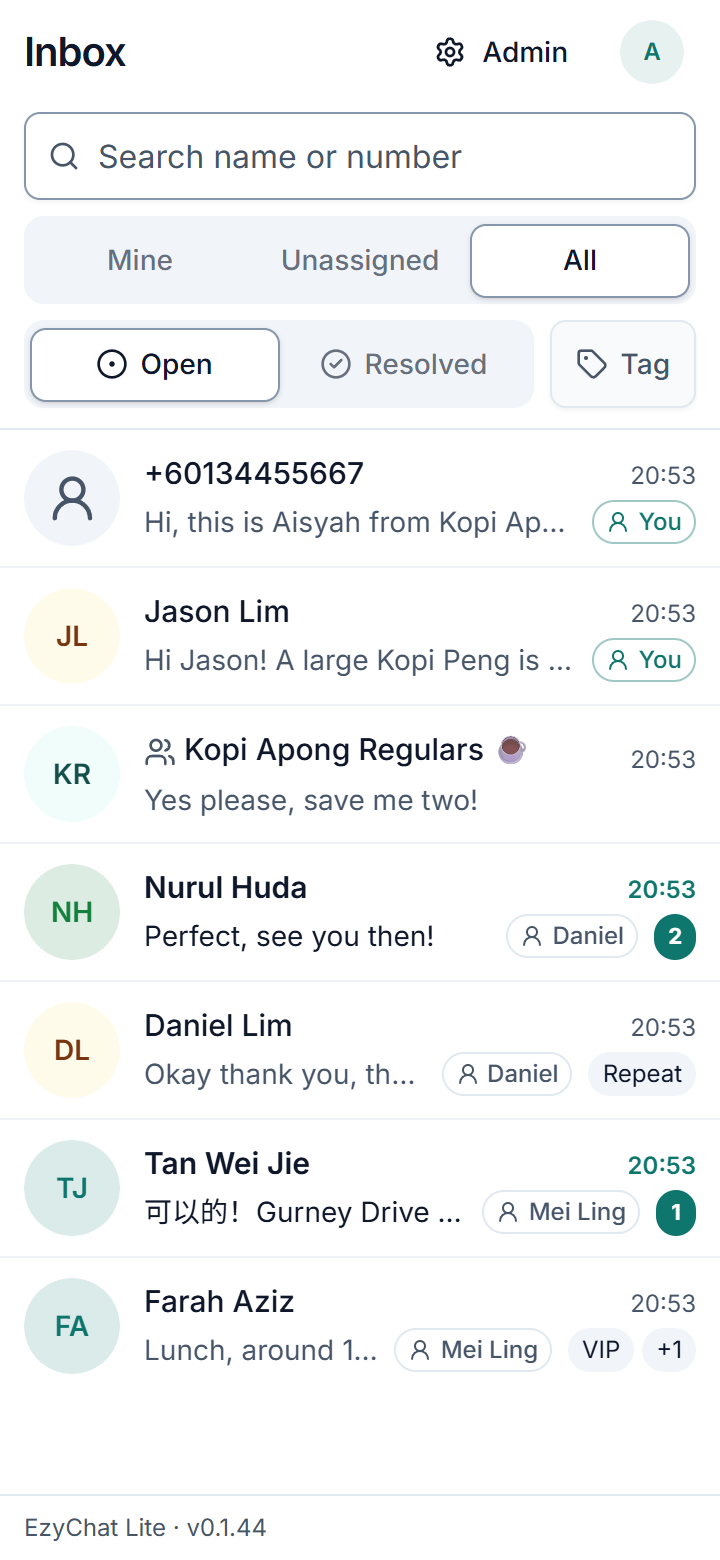
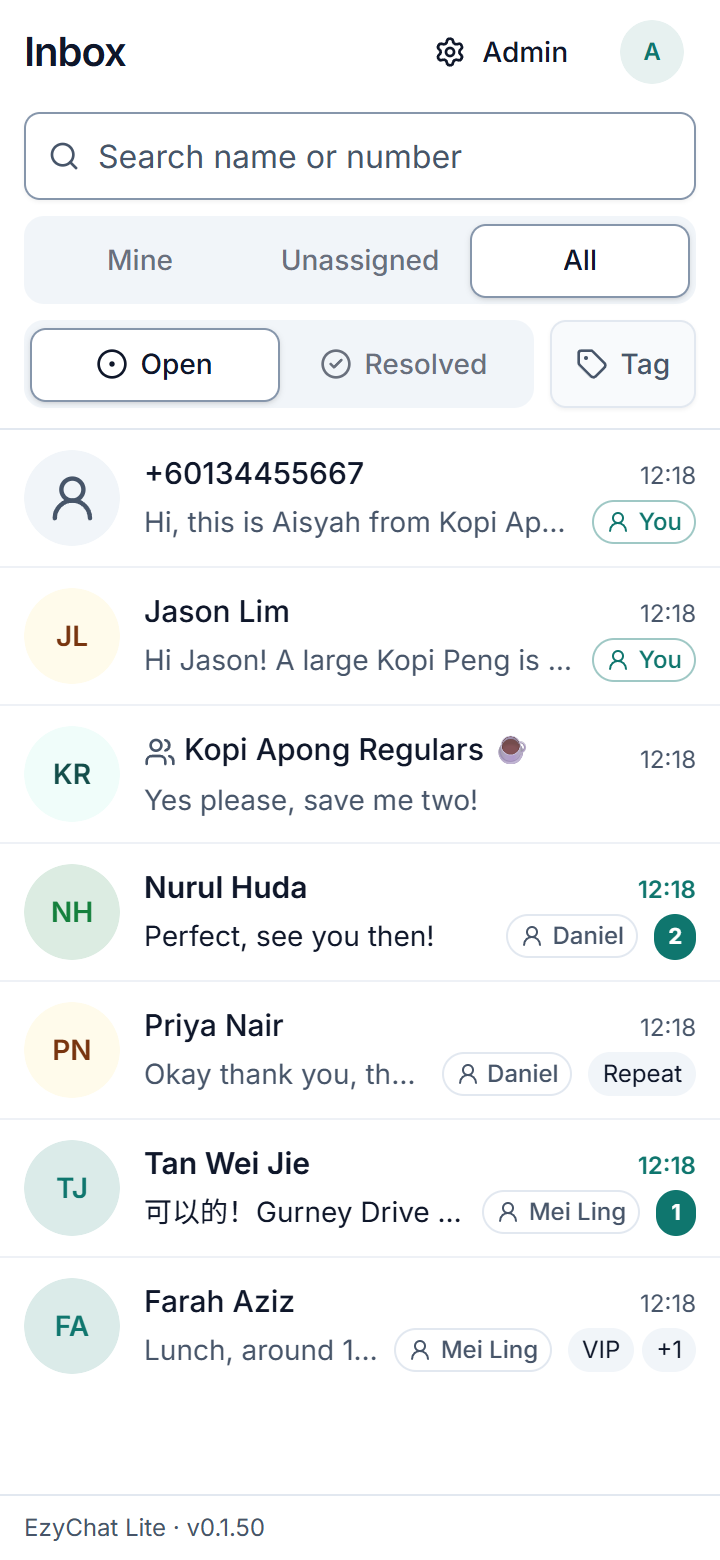
fix(web): reaction badge never covers the time and ticks; demo shots with reactions
Screen review of the real app: the meta line gets room when a message has
reactions (app and mock), checked in e2e. The demo screenshot script seeds
reactions and adds chat/group-reactions-*; the group member Daniel no longer
shares Priya's number.

Claude-Session: https://claude.ai/code/session_01S9XZgzFP3XMvxuZSeyCGwr

diff --git a/apps/web/src/inbox/MessageBubble.tsx b/apps/web/src/inbox/MessageBubble.tsx
@@ -288,7 +288,14 @@ export function MessageBubble({
             {formatWhatsApp(m.body)}
           </p>
         )}
-        <div className="mt-0.5 flex items-center justify-end gap-1 text-[11px] text-muted-foreground">
+        <div
+          className={cn(
+            'mt-0.5 flex items-center justify-end gap-1 text-[11px] text-muted-foreground',
+            // Room for the reaction badge, which overlaps the bubble's lower edge: it never covers
+            // the time or the ticks.
+            reactions.length > 0 && 'pb-3',
+          )}
+        >
           {/* Replies the admin's AI assistant sent through MCP (stored marker, not the clientId). */}
           {out && m.viaAssistant && (
             <span className="flex items-center gap-0.5" data-testid="via-assistant">

diff --git a/docs/features/emoji-reactions/mock/src/inbox/MessageBubble.tsx b/docs/features/emoji-reactions/mock/src/inbox/MessageBubble.tsx
@@ -292,7 +292,13 @@ export function MessageBubble({
             {linkify(m.body)}
           </p>
         )}
-        <div className="mt-0.5 flex items-center justify-end gap-1 text-[11px] text-muted-foreground">
+        <div
+          className={cn(
+            'mt-0.5 flex items-center justify-end gap-1 text-[11px] text-muted-foreground',
+            // Screen review: room for the reaction badge, so it never covers the time or the ticks.
+            reactions.length > 0 && 'pb-3',
+          )}
+        >
           {/* Proposed (MCP send): replies the admin's AI assistant sent carry this line. The mock
               recognises them by the send tool's clientId; the app will use a stored marker. */}
           {out && m.clientId?.startsWith('mcp-') && (

diff --git a/e2e/reactions.spec.ts b/e2e/reactions.spec.ts
@@ -51,6 +51,10 @@ test('emoji reactions show live under the bubble, group by emoji, list who react
   const badge = outbound.getByTestId('reaction-badges');
   await expect(badge).toHaveText('👍');
   await expect(badge).toHaveAccessibleName('Reactions: 👍 1');
+  // The badge hangs under the bubble's corner and never covers the time or the ticks.
+  const badgeBox = (await badge.boundingBox())!;
+  const timeBox = (await outbound.locator('time').boundingBox())!;
+  expect(badgeBox.y).toBeGreaterThanOrEqual(timeBox.y + timeBox.height);
   await react({ messageId: outboundId, emoji: '❤' });
   await expect(badge).toHaveText('❤');
   // The linked phone reacts to the customer's question too.

diff --git a/docs/features/emoji-reactions/design.md b/docs/features/emoji-reactions/design.md
@@ -107,3 +107,16 @@ Self-review before that, 2026-10-23:
   truncate, a 44 px hit area on touch screens (`pointer-coarse:after:-inset-2` around the 28 px pill).
 - Not done by the agent (owner rule: the orchestrator runs it once): the screenshot round
   (`reaction-shots.mjs`), the designer screen review and the owner's look at the screenshots.
+
+## Screen review (real app, 2026-10-23)
+
+Demo data (`e2e/marketing-screenshots.mjs`: Priya's ❤ on a staff reply, the phone's 🙏, three regulars in the
+group), desktop 1280 / mobile 360, light and dark (`docs/screenshots/chat/conversation-*`,
+`group-reactions-*`).
+
+- Fixed: on an outbound bubble the badge (under the right corner, as in the mock) covered the time and the
+  ticks. The meta line now gets `pb-3` when the message has reactions (app and mock); `e2e/reactions.spec.ts`
+  checks that the badge starts below the time.
+- Fixed (demo data, older than this feature): the group member "Daniel Lim" had Priya's number, so her chat
+  showed his name.
+- Kept: the reaction list opens over the next message (a popover, closed with Escape or a tap outside).
